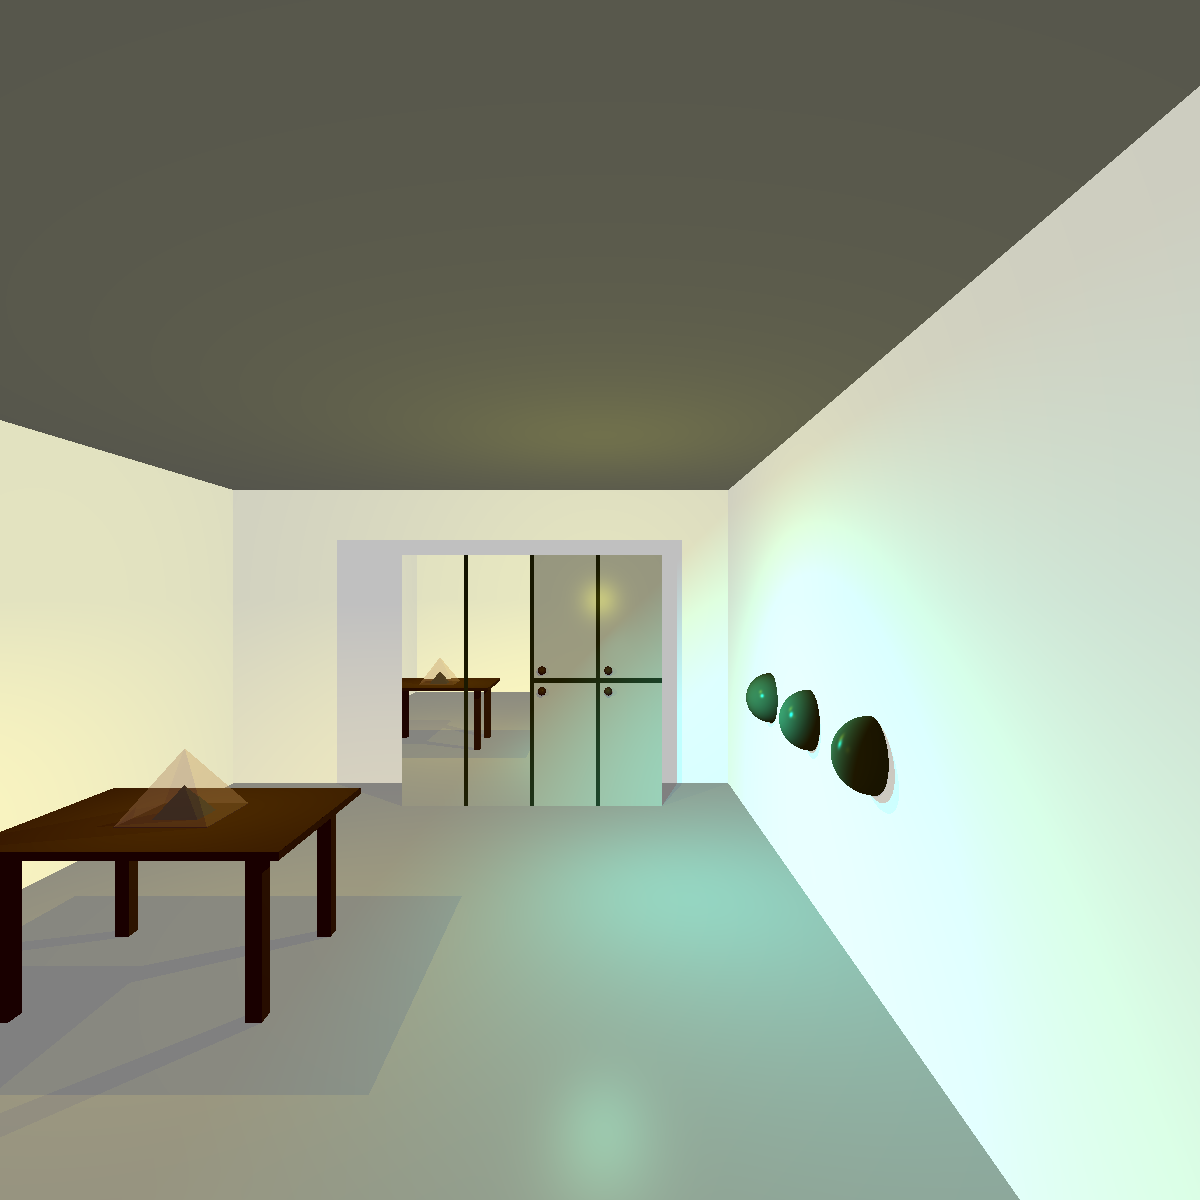
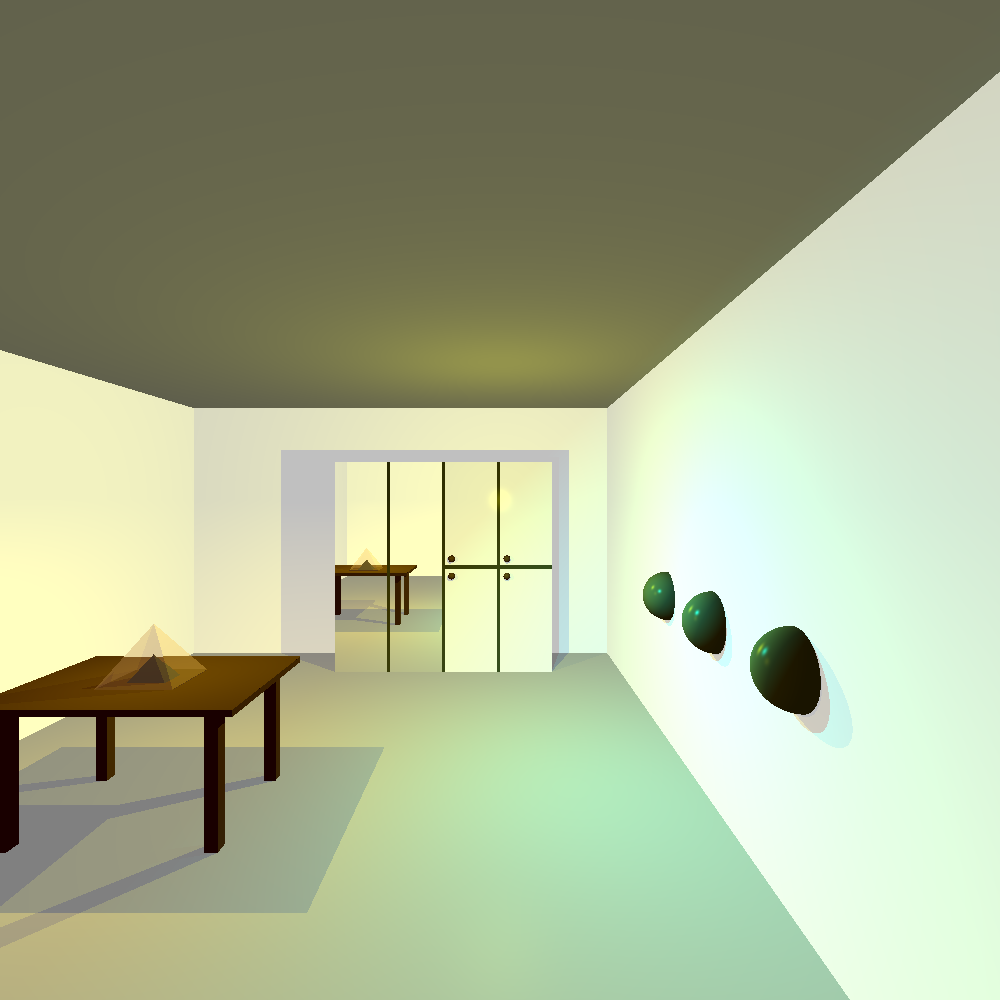
image - final. to do - comments.

Changed region(s): [[0.0, 0.465, 0.868, 1.0], [0.341, 0.31, 0.682, 0.403], [0.682, 0.31, 0.713, 0.341]]

diff --git a/unittests/elements/LightsTests.java b/unittests/elements/LightsTests.java
@@ -194,21 +194,21 @@ public class LightsTests {
      * Produce a picture of a sphere lighted by a directional light
      */
     @Test
-    public void MP1test() {
+    public void miniProject01() {
 Geometry door1 = new Polygon(new Point3D(0,31,0),  new Point3D(0,61,0),
                 new Point3D(15,61,0),  new Point3D(15,31,0))
                 .setEmission(new Color(java.awt.Color.WHITE).scale(0.7))
-                .setMaterial(new Material().setkD(0.6).setkS(0.9).setnShininess(100));
+                .setMaterial(new Material().setkD(0.6).setkS(0.8).setnShininess(400));
 
         Geometry middle1 = new Polygon(new Point3D(0,0,0),  new Point3D(-1,0,0),
                 new Point3D(-1,61,0),  new Point3D(0,61,0))
                 .setEmission(new Color(java.awt.Color.BLACK).scale(0.5))
-                .setMaterial(new Material().setkD(0.5).setkS(0.5).setnShininess(100));
+                .setMaterial(new Material().setkD(0.5).setkS(0.5).setnShininess(300));
 
         Geometry door2 = new Polygon(new Point3D(-1,31,0),  new Point3D(-1,61,0),
                 new Point3D(-16,61,0),  new Point3D(-16,31,0))
                 .setEmission(new Color(java.awt.Color.WHITE).scale(0.7))
-                .setMaterial(new Material().setkD(0.6).setkS(0.9).setnShininess(100));
+                .setMaterial(new Material().setkD(0.6).setkS(0.8).setnShininess(400));
         Geometry middle2 = new Polygon(new Point3D(-16,0,0),  new Point3D(-17,0,0),
                 new Point3D(-17,61,0),  new Point3D(-16,61,0))
                 .setEmission(new Color(java.awt.Color.BLACK).scale(0.5))
@@ -225,11 +225,11 @@ Geometry door1 = new Polygon(new Point3D(0,31,0),  new Point3D(0,61,0),
         Geometry door3 = new Polygon(new Point3D(0,30,0),  new Point3D(0,0,0),
                 new Point3D(15,0,0),  new Point3D(15,30,0))
                 .setEmission(new Color(java.awt.Color.WHITE).scale(0.7))
-                .setMaterial(new Material().setkD(0.6).setkS(0.9).setnShininess(100));
+                .setMaterial(new Material().setkD(0.6).setkS(0.8).setnShininess(400));
         Geometry door4 = new Polygon(new Point3D(-1,30,0),  new Point3D(-1,0,0),
                 new Point3D(-16,0,0),  new Point3D(-16,30,0))
                 .setEmission(new Color(java.awt.Color.WHITE).scale(0.7))
-                .setMaterial(new Material().setkD(0.6).setkS(0.9).setnShininess(100));
+                .setMaterial(new Material().setkD(0.6).setkS(0.8).setnShininess(400));
 
         Geometry door5 = new Polygon(new Point3D(-17,61,0),  new Point3D(-17,0,0),
                 new Point3D(-32,0,0),  new Point3D(-32,61,0))
@@ -239,7 +239,7 @@ Geometry door1 = new Polygon(new Point3D(0,31,0),  new Point3D(0,61,0),
                 .setMaterial(new Material().setkD(0.1).setkS(0.7).setnShininess(300).setkR(1));
         Geometry floor= new Plane(new Point3D(0,0,0),new Vector(0,1,0))
                 .setEmission(new Color(java.awt.Color.GRAY))
-                .setMaterial(new Material().setkD(0.1).setkS(0.05).setnShininess(100));
+                .setMaterial(new Material().setkD(0.4).setkS(0.05).setnShininess(100));
         Geometry roof= new Plane(new Point3D(0,80,0),new Vector(0,1,0))
                 .setEmission(new Color(java.awt.Color.WHITE).scale(0.3))
                 .setMaterial(new Material().setkD(0.7));
@@ -421,10 +421,9 @@ Geometry door1 = new Polygon(new Point3D(0,31,0),  new Point3D(0,61,0),
                 triangle5,triangle6,triangle7,triangle8,sphere1,sphere2,sphere3,wallFront);
         scene1._lights.add(new PointLight(new Color(java.awt.Color.YELLOW)
                 .add(new Color(java.awt.Color.YELLOW)).scale(0.2), new Point3D(0, 50, 40),3));
-        scene1._lights.add(new SpotLight(new Vector(0,-1,0),new Color(java.awt.Color.ORANGE).scale(0.3), new Point3D(-56, 50, 71),3));
-
-        scene1._lights.add(new SpotLight(new Vector(1,-1,0),new Color(java.awt.Color.CYAN).scale(0.8), new Point3D(0, 60, 50),3));
-        ImageWriter imageWriter = new ImageWriter("test1", 1500, 1500);
+        scene1._lights.add(new SpotLight(new Vector(0,-1,0),new Color(java.awt.Color.ORANGE).scale(0.5), new Point3D(-56, 50, 71),3));
+        scene1._lights.add(new SpotLight(new Vector(1,-1,0),new Color(java.awt.Color.cyan).scale(0.7), new Point3D(0, 50, 70),3));
+        ImageWriter imageWriter = new ImageWriter("test1", 1000, 1000);
         Render render = new Render()//
                 .setImageWriter(imageWriter) //
                 .setCamera(camera3) //
